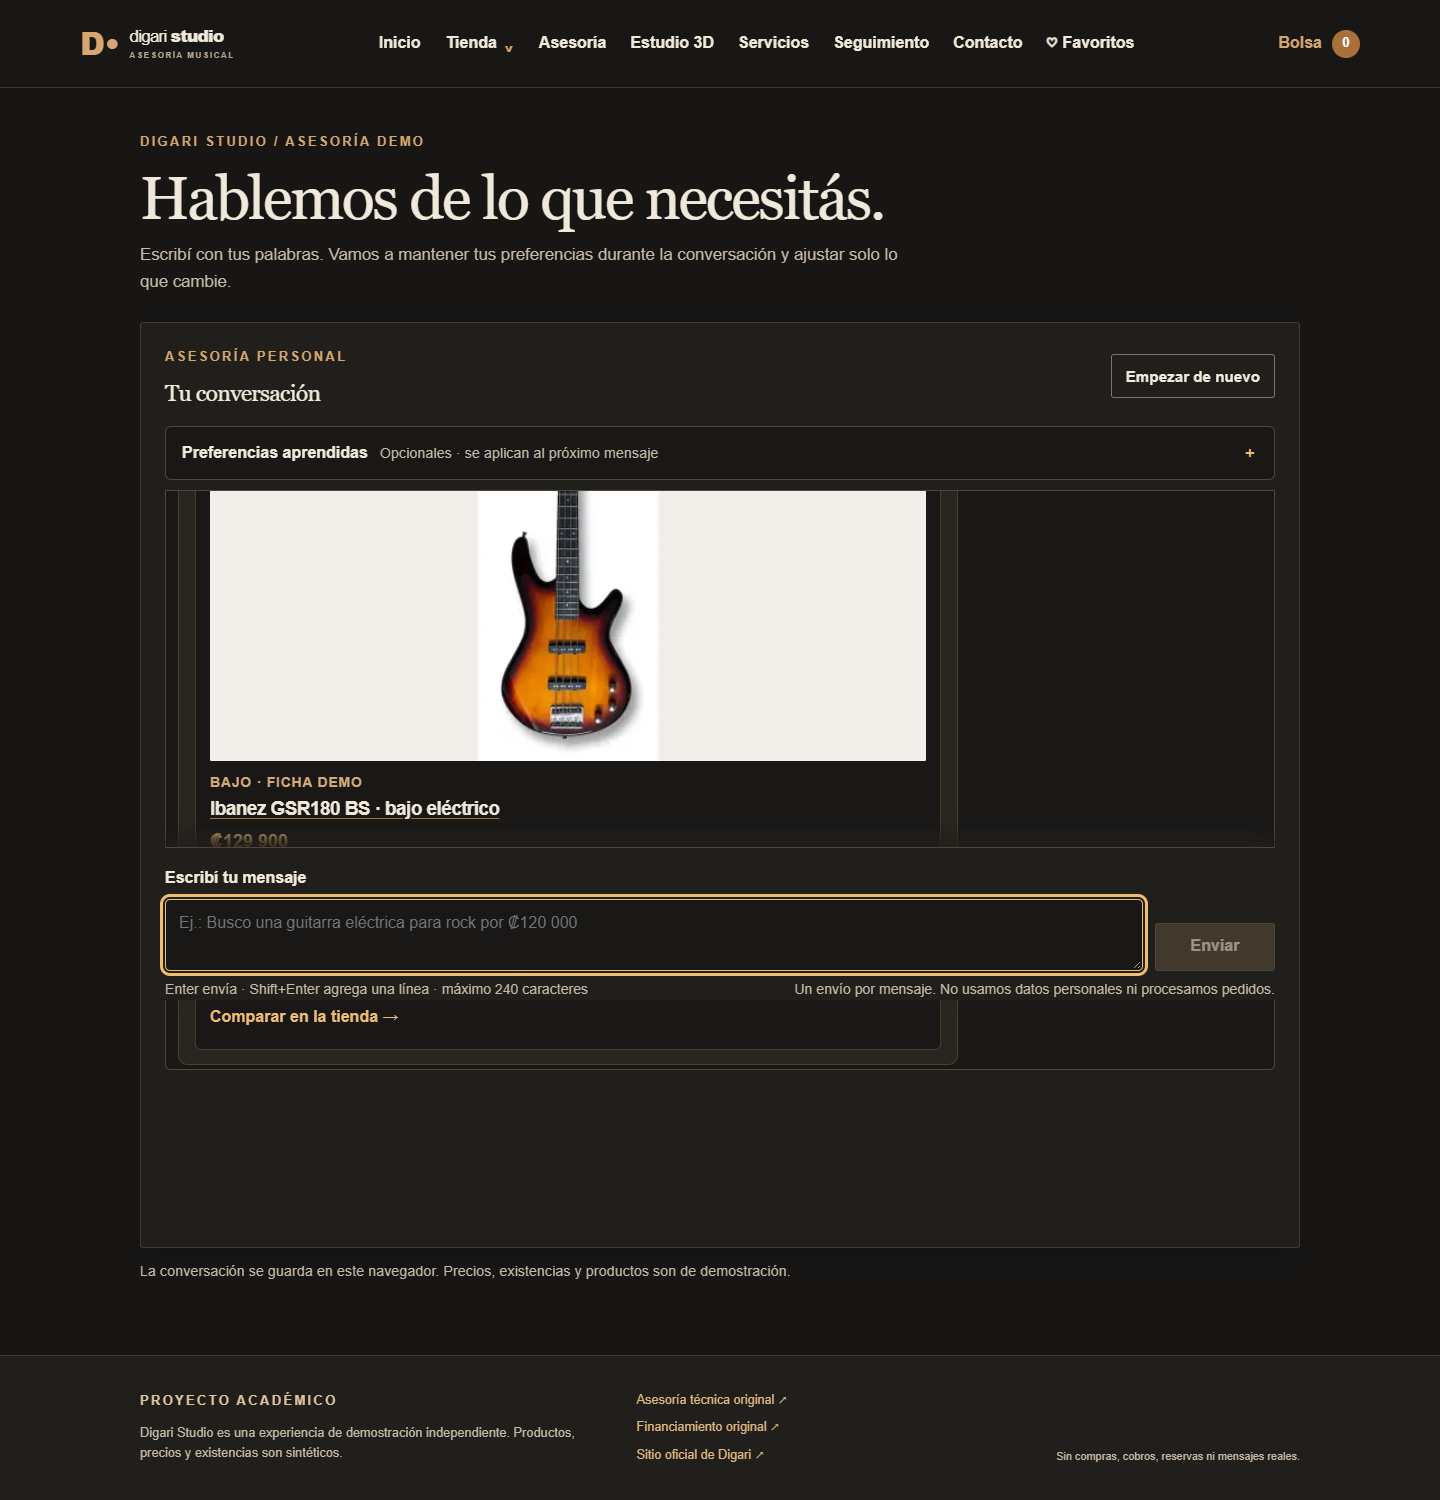
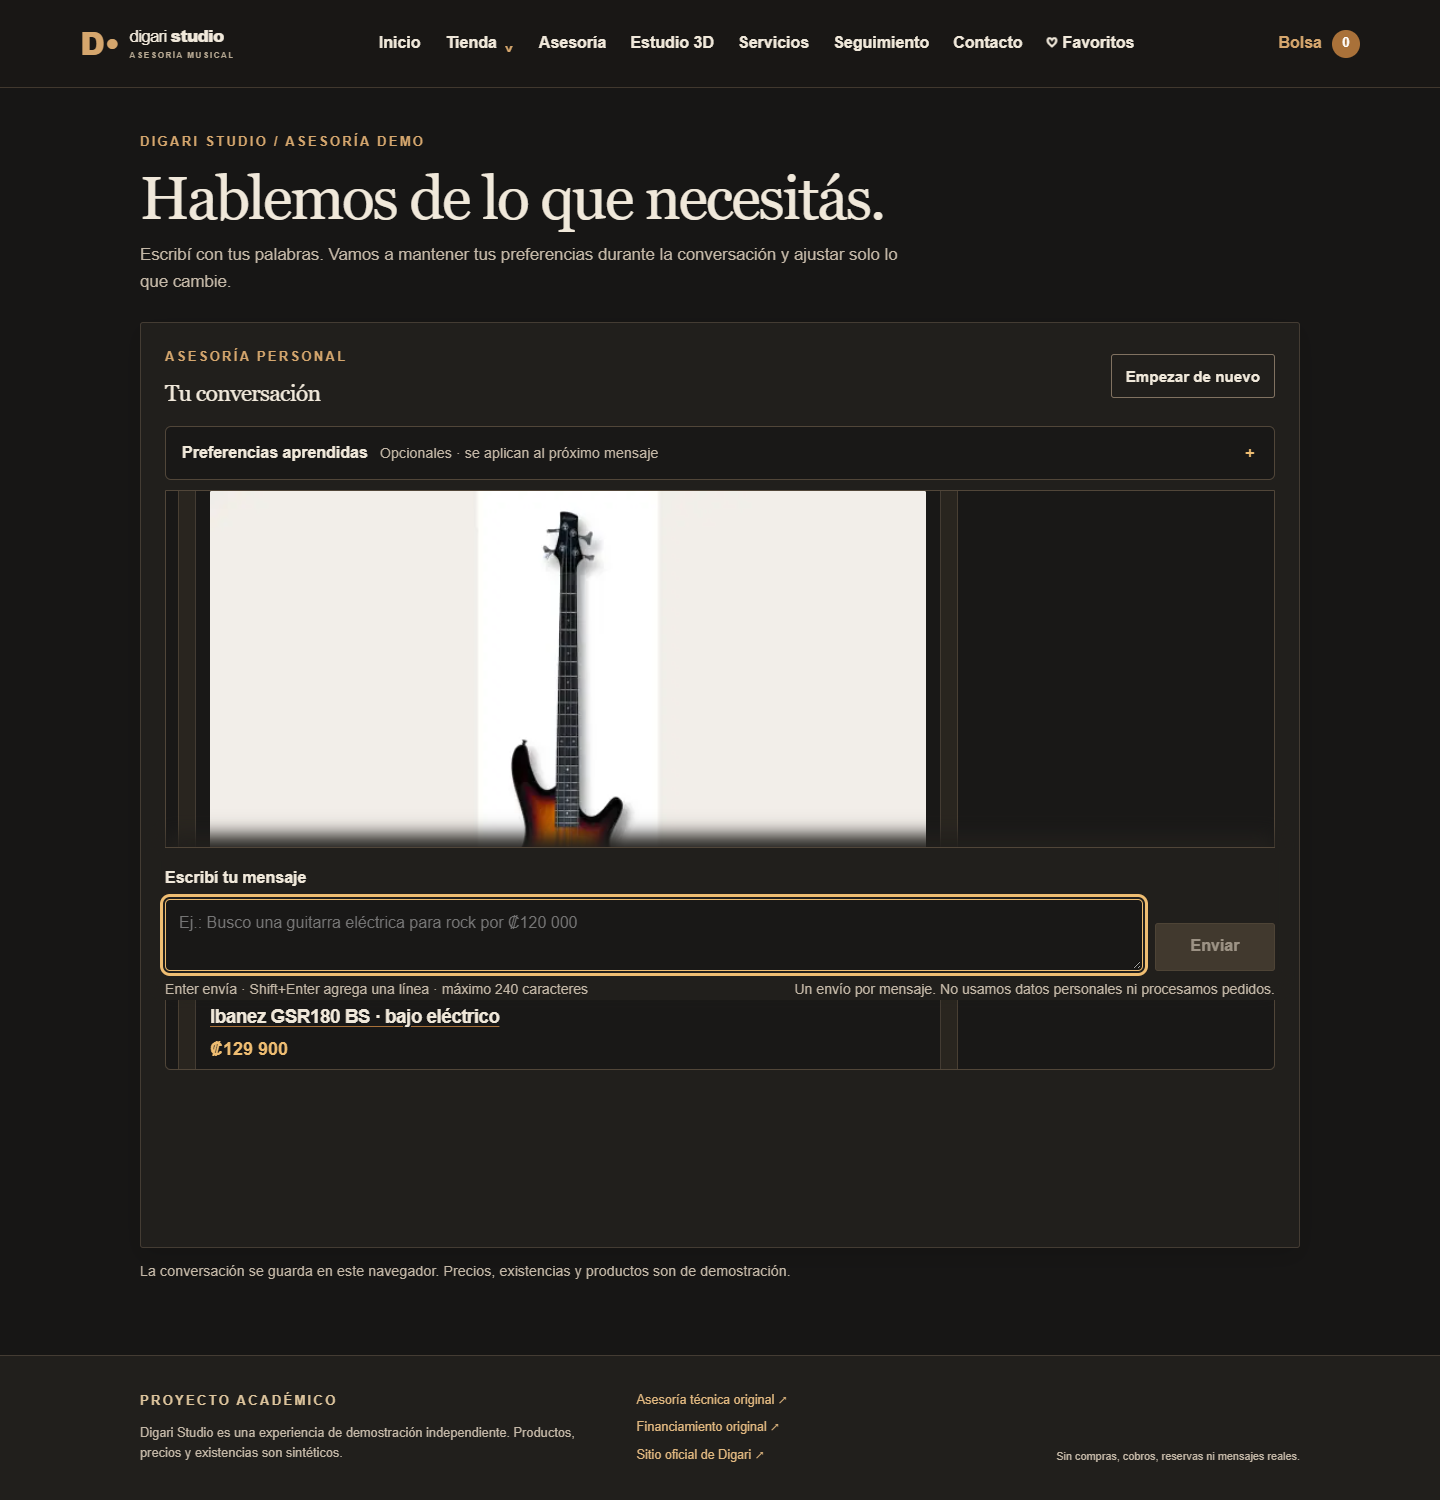
Document advice regression and 100 profile QA

Changed region(s): [[0.125, 0.3067, 0.6562, 0.5827], [0.125, 0.6747, 0.3438, 0.7053]]

diff --git a/docs/qa/informe-usabilidad.md b/docs/qa/informe-usabilidad.md
@@ -1,45 +1,70 @@
-# Auditoría de usabilidad de Digari Studio después de las correcciones
+# Auditoría de usabilidad de Digari Studio
 
-## Resultado medido
+## Resultado
 
-La suite ejecutó 100 perfiles en contextos independientes de Chrome con SQLite temporal por perfil. Los 100 aprobaron los siete rubros después de repetir en serie los 23 casos que habían agotado el tiempo de espera durante la primera pasada en tres navegadores. La primera pasada se conserva en `primera-pasada-957149a.json`. Los resultados finales están en `resultados-e2e.json` y las opiniones simuladas, separadas de las observaciones, en `usuarios-simulados.csv`.
+Se ejecutaron 100 perfiles en 100 contextos independientes. **100 aprobaron los siete rubros, 0 registraron al menos un fallo y 0 quedaron sin ejecutar.** Las cifras describen las tareas automatizadas de esta muestra. Las opiniones del CSV son simuladas.
 
-| Rubro | Base 90ee345, aprobados | Versión 957149a, aprobados | Fallos finales |
+| Rubro | Intentos | Aprobados | Con fallo |
 |---|---:|---:|---:|
-| Inicio, menú y Bolsa | 100/100 | 100/100 | 0 |
-| Tienda, ficha, fotografía y Promos | 62/100 | 100/100 | 0 |
-| Comparación y Favoritos | 100/100 | 100/100 | 0 |
-| Estudio 3D y audio | 100/100 | 100/100 | 0 |
-| Asesoría local, tres turnos | 100/100 | 100/100 | 0 |
-| Pedido y seguimiento tras recarga | 100/100 | 100/100 | 0 |
-| Servicio, seguimiento inválido y Contacto | 100/100 | 100/100 | 0 |
+| Inicio, menú y bolsa | 100 | 100 | 0 |
+| Tienda, ficha y Promos | 100 | 100 | 0 |
+| Comparación y favoritos | 100 | 100 | 0 |
+| Estudio y audio | 100 | 100 | 0 |
+| Asesoría local | 100 | 100 | 0 |
+| Pedido y seguimiento | 100 | 100 | 0 |
+| Servicio y contacto | 100 | 100 | 0 |
 
-La base tenía 62 perfiles con los siete rubros aprobados y 38 con fallo de fotografía. La repetición final tiene **100 aprobados, 0 fallidos y 0 sin ejecutar**. Los 23 casos de la primera pasada nueva fallaron por tiempo de espera bajo ejecución simultánea y completaron los siete rubros al repetirse en serie. No se atribuyeron esos tiempos al producto sin reproducción bajo la misma condición.
+| Grupo | Perfiles | Aprobados en los siete rubros |
+|---|---:|---:|
+| principiantes | 10 | 10 |
+| compradores de regalos | 10 | 10 |
+| guitarristas | 10 | 10 |
+| bajistas y tecladistas | 10 | 10 |
+| productores de home studio | 10 | 10 |
+| técnicos de audio | 10 | 10 |
+| DJs | 10 | 10 |
+| presupuesto ajustado | 10 | 10 |
+| clientes de taller | 10 | 10 |
+| navegación con teclado o zoom | 10 | 10 |
 
-## Las cinco mejoras auditadas
+Se recuperaron 100 pedidos después de recargar y 100 solicitudes de taller. En el recorrido principal se eligió explícitamente «Servicio» al rastrear el comprobante. La prueba adicional examinó qué pasa si se usa la selección predeterminada.
 
-| Mejora | Resultado observable | Cómo repetir la comprobación |
-|---|---|---|
-| Fotografía de cada ficha | 15/15 imágenes WebP cargan y están rotuladas como fotografía de referencia. Se inspeccionaron las nuevas fotos para comprobar objeto y encuadre. El controlador usa una vista completa del Numark Mixtrack. | Abrir las 15 fichas y ejecutar `tests/qa-fixes.mjs`. Revisar los créditos de `docs/fuentes-imagenes.md`. |
-| Enlace del servicio | El comprobante abre Seguimiento con «Servicio» elegido y muestra el estado al consultar directamente. Los pedidos conservan el tipo «Pedido». | Registrar un servicio y un pedido demo, usar sus enlaces y consultar los códigos en sus sesiones. |
-| Comparación desde ficha | El enlace vuelve con una fila seleccionada. Se conservan categoría y presupuesto. El botón Atrás vuelve a la ficha. «Limpiar filtros» deja ambos campos vacíos. | Filtrar Instrumentos hasta ₡100 000, abrir la acústica y usar el enlace de comparación. |
-| Bolsa en carga | Durante 1,2 s de demora controlada aparece «Cargando tu bolsa…». Después se ve ₡84 900, también tras recargar. Con carrito vaciado se ve el estado vacío. | Ejecutar `tests/qa-fixes.mjs` con la vista previa local. |
-| Filtros al regresar | La URL conserva búsqueda, familia, categoría, rango de precios, estilo y disponibilidad. El enlace de regreso y Atrás restauran el filtro; la limpieza elimina los valores. | Aplicar filtros en Tienda, abrir una ficha, volver y borrar filtros. |
+## Base y repetición
 
-## Versión, entorno y reproducción
+Rama **refactor/experiencia-digari**, commit **d98cc905c4fa1a7ccea2124c6e9220c4c836d2f3**, Chrome 157.0.8103.80. La suite compiló un archivo de Git de ese SHA en una carpeta temporal con las dependencias del proyecto. Las instancias de auditoría escucharon en http://127.0.0.1:3180/, http://127.0.0.1:3181/, http://127.0.0.1:3182/. El JSON identifica la URL de cada perfil. Cada proceso sirvió una SQLite recién sembrada y se cerró al concluir su caso. La copia de prueba usó el asesor local.
 
-La rama auditada es `refactor/experiencia-digari`. La compilación de la suite corresponde a `957149a4e735a74efc81339e2fcc33f41cef1991` y se sirvió en `http://127.0.0.1:3180/`, `http://127.0.0.1:3181/` y `http://127.0.0.1:3182/` durante los lotes. Cada registro del JSON indica la URL exacta de su perfil. El archivo `baseline-90ee345.json` conserva el resultado anterior. La suite usa una copia del commit de Git, una base recién sembrada para cada perfil y Gemini desactivado para obtener respuestas locales reproducibles.
-
-Desde la raíz del proyecto, con Node, npm, Chrome y las dependencias instaladas, repetir en PowerShell:
+Desde la raíz, con Node, npm, Chrome, Git, tar y las dependencias del proyecto instaladas, ejecutar en PowerShell:
 
 ```powershell
 powershell -ExecutionPolicy Bypass -File tests/qa-audit.ps1
 ```
 
-Para continuar una ejecución interrumpida del mismo SHA, agregar `-Resume`. El resultado de cada perfil se guarda antes de iniciar el siguiente. Para la comprobación puntual de las cinco correcciones, arrancar la versión en localhost y ejecutar `node tests/qa-fixes.mjs` con `QA_DEPS` apuntando a la instalación temporal de Playwright Core.
+Agregar `-Resume` para continuar desde el último perfil guardado del mismo SHA. El ejecutor escribe el JSON mediante reemplazo de archivo después de cada perfil. Los tres trabajadores usan puertos y bases independientes. Los códigos privados se usaron dentro de cada contexto de navegador. Las capturas muestran únicamente fichas públicas.
+
+## Qué se comprobó
+
+El menú llevó a Tienda y Estudio, se cerró al navegar y permitió abrir Bolsa. Cada perfil probó el menú compacto a 720 × 450. El catálogo se filtró por categoría y presupuesto. Si el producto objetivo excedía el presupuesto, se comprobó su exclusión y se retiró el tope para poder inspeccionar esa ficha. Se abrió una categoría desde Promos, se seleccionaron dos productos, se leyó la comparación y se recuperó el favorito.
+
+En Estudio se seleccionó el ID del perfil y se contrastó su título con el catálogo. Se compararon capturas del lienzo antes y después de girar y acercar. Para los instrumentos se inició una nota, para equipos se priorizó el perfil A cuando estaba disponible y en accesorios pasivos se leyó su explicación. El chat recibió una consulta con tipo, estilo y monto, una petición de alternativa económica y un aumento de ₡15 000 en el mismo campo. Se verificaron las tres respuestas locales y las preferencias finales.
+
+En el pedido se comprobó el total de una unidad, la confirmación, la actividad y el total recuperado tras recargar Seguimiento. Se registraron los cuatro tipos de servicio, se consultó el estado, se probó una entrada inválida y se localizó un canal de contacto. Los pasos con evidencia faltante se identifican como «no ejecutado» en el JSON.
+
+## Cinco mejoras por impacto
+
+| Prioridad | Observación y alcance | Reproducción | Criterio de corrección y decisión |
+|---|---|---|---|
+| 1. Completar las fotografías | 0/100 perfiles vieron «fotografía pendiente» en 0 fichas distintas. La ilustración sí cargó. | Abrir una de estas fichas: . | Una foto autorizada y correctamente identificada por ficha. Bloquea aprobar el criterio de fotografía. |
+| 2. Abrir el seguimiento en el tipo correcto | 1/1 sesión diagnóstica. El enlace del servicio abrió «servicio» y Consultar devolvió «estado visible». Impide recuperar un servicio por el camino directo. | Registrar afinación, seguir el enlace y consultar sin tocar el selector. | Mostrar la actividad del servicio en el primer intento, también tras recargar. Resolver antes de entregar ese flujo. |
+| 3. Conservar el producto al comparar | 1/1 sesión diagnóstica. Desde la ficha acústica, «Volver al catálogo para comparar» produjo 1 filas. Obliga a localizar y marcar de nuevo la primera opción. | Abrir la ficha acústica y usar el enlace de comparación. | El producto aparece marcado y agregar un segundo produce dos filas. Prioritaria para la comparación desde ficha. |
+| 4. Mostrar carga antes del total | 1/1 sesión diagnóstica. Con 1,2 s de demora en el catálogo, el resumen pasó de ₡84 900 a ₡84 900. | Añadir la acústica y abrir Bolsa con esa demora. | Mostrar el total solo cuando se conocen todas las líneas. El pedido persistido pasó la prueba de recarga. Puede esperar a la siguiente revisión. |
+| 5. Recuperar el presupuesto y la categoría al volver | 1/1 sesión diagnóstica. El enlace de vuelta desde la ficha dejó vacíos ambos campos. Afecta especialmente a quien compra con un tope. | Filtrar Instrumentos hasta ₡100 000, abrir la acústica y volver desde el enlace de comparación. | Conservar ambos filtros y la lista aplicable. Puede esperar tras resolver el seguimiento y la selección de comparación. |
+
+Los cuatro diagnósticos de navegación y carga comparten un solo recorrido complementario. Su frecuencia en personas reales queda pendiente. La tabla prioriza la cobertura observada y el esfuerzo necesario para recuperar el flujo.
 
 ## Evidencia y límites
 
-En cada recorrido se abrió el menú y se comprobó su cierre, se filtró y abrió una ficha, se compararon dos productos, se guardó un favorito, se seleccionó un modelo 3D y se accionaron giro y zoom. El audio se activó o se verificó la explicación de accesorio pasivo. El chat local recibió tres turnos con cambio de presupuesto. Se confirmó un pedido y se recuperó tras recargar; también se registró y consultó un servicio, se probó un código inválido y se localizó Contacto. Los códigos privados circularon solo en memoria del navegador y no figuran en los informes o capturas.
+[Resultados por paso](resultados-e2e.json) · [Perfiles y opiniones simuladas](usuarios-simulados.csv) · [Capturas de fichas](evidence/). Los 100 perfiles originales conservaron sus IDs, tareas, presupuestos y dispositivos. Las asignaciones son 89 de escritorio, uno móvil emulado, cinco de teclado y cinco de zoom. El menú compacto también se comprobó en escritorio. El zoom se aproximó por tamaño de viewport y densidad de píxeles. Los perfiles de teclado activaron controles mediante foco y Enter, con selección automatizada de campos y casillas.
 
-El CSV conserva las 100 tareas y sus opiniones marcadas como simuladas. Se revisó una captura por grupo. La emulación no sustituye el tacto en teléfono, la escucha con equipo real, un lector de pantalla ni entrevistas con clientes. La correspondencia exacta de la variante roja del ukelele Makala y las fichas históricas sin página oficial accesible siguen indicadas en `docs/fuentes-imagenes.md`. Los precios y existencias son de demostración. Las mediciones de tiempo y éxito con personas reales siguen pendientes.
+Se revisó una captura de ficha por grupo. La emulación deja pendientes el zoom nativo del navegador al 200 %, el recorrido completo por Tab con lector de pantalla, el tacto en un teléfono y la escucha física. El cambio de píxeles del visor indica respuesta a los controles. La audición, la fidelidad del timbre y la comprensión del rotulado por músicos requieren pruebas con personas. Los tiempos y la tasa de éxito de compradores reales siguen sin medir.
+
+Los resultados de la sesión parcial anterior se conservan en evidence/U001-estudio-movil.png y evidence/profiles-results.json como antecedentes. Los conteos de este informe proceden de resultados-e2e.json.

diff --git a/docs/qa/advice-chat-regression.md b/docs/qa/advice-chat-regression.md
@@ -1,0 +1,52 @@
+# Regresión de Asesoría y estado del catálogo
+
+## Recorrido de chat comprobado
+
+- Rama: `refactor/experiencia-digari`.
+- SHA de la aplicación: `d98cc905c4fa1a7ccea2124c6e9220c4c836d2f3`.
+- Chrome: `157.0.8103.80`.
+- Vista previa de prueba: `http://localhost:3118/asesoria`.
+- Base: SQLite temporal; Gemini desactivado para no usar la clave local.
+- El script reproducible es `node tests/advice-chat-regression.mjs`.
+
+Los primeros cuatro mensajes se enviaron, en ese orden y desde el mismo campo:
+
+| Mensaje | Resultado visible en Chrome |
+|---|---|
+| «¿Tienen bajos?» | Tarjeta Ibanez GSR180 BS desde el catálogo demo, con foto WebP cargada, precio ₡129 900 y enlace a la ficha. No preguntó por presupuesto, uso ni estilo. |
+| «Busco un piano por ₡200 000» | Sin productos recomendados; explicó que aún no hay pianos acústicos ni digitales demo y que un teclado es otra familia. |
+| «Busco una guitarra por ₡150 000» | Tarjetas de guitarra acústica y eléctrica; ambas muestran imagen, precio inferior al monto y enlace. La nueva búsqueda sustituyó el tipo y el presupuesto anteriores. |
+| «¿Hay algo más barato?» | Conservó guitarra y comunicó que no quedaba una alternativa con existencias y precio menor entre las fichas disponibles. No propuso opciones fuera del límite. |
+
+En una conversación nueva se comprobó además «Busco una guitarra acústica por ₡120 000»: la familia específica prevaleció sobre «Guitarra» y no mostró la eléctrica. En los cinco casos se mantuvieron el historial y el campo de escritura en pantalla. El proveedor Gemini real no se llamó en esta prueba; el modo local fue el observado. Las pruebas unitarias también cubren un proveedor simulado y el fallback.
+
+Capturas: [respuesta con bajos y foto cargada](advice-chat-bajos.png) y [secuencia completa](advice-chat-regression.png). No contienen códigos privados.
+
+## Inventario que permanece en la versión
+
+El endpoint público devolvió **15 fichas en 15 familias; una ficha por familia**. Los rangos usados para este resumen son económicos (hasta ₡30 000), intermedios (₡30 001–₡100 000) y altos (más de ₡100 000). Todos los precios y stocks siguen siendo demostrativos.
+
+| Familia actual | Total | Económico | Intermedio | Alto |
+|---|---:|---:|---:|---:|
+| Guitarra acústica | 1 | 0 | 1 | 0 |
+| Guitarra eléctrica | 1 | 0 | 0 | 1 |
+| Bajo | 1 | 0 | 0 | 1 |
+| Teclado | 1 | 0 | 1 | 0 |
+| Piano digital o acústico | 0 | 0 | 0 | 0 |
+| Ukelele | 1 | 1 | 0 | 0 |
+| Viento | 1 | 1 | 0 | 0 |
+| Cuerdas | 1 | 1 | 0 | 0 |
+| Cable | 1 | 1 | 0 | 0 |
+| Caña | 1 | 1 | 0 | 0 |
+| Micrófono | 1 | 1 | 0 | 0 |
+| Monitor | 1 | 0 | 1 | 0 |
+| Parlante | 1 | 0 | 1 | 0 |
+| Controlador DJ | 1 | 0 | 1 | 0 |
+| Audífonos | 1 | 1 | 0 | 0 |
+| Interfaz | 1 | 0 | 1 | 0 |
+
+**La meta de cinco modelos distintos por familia no está cumplida:** ninguna familia llega a cinco ni ofrece los tres rangos. El catálogo conserva 15 fotografías WebP con atribución, autor y licencia en [`fuentes-imagenes.md`](../fuentes-imagenes.md). Ese archivo documenta confirmación de modelo desde fuente oficial para 9/15; las otras seis fichas aún requieren confirmación oficial o aclaración de identidad/variante. No se añadieron productos ni se reutilizaron fotos como si fueran de modelos distintos.
+
+## Suite de perfiles
+
+La corrida completa de `tests/qa-audit.ps1` construyó desde Git el SHA `d98cc905c4fa1a7ccea2124c6e9220c4c836d2f3`, ejecutó 100 contextos aislados y aprobó 100/100 los siete rubros. Los datos por paso y la URL temporal están en [`resultados-e2e.json`](resultados-e2e.json); el resumen de tareas y límites está en [`informe-usabilidad.md`](informe-usabilidad.md). La suite verificó el asesor local, no Gemini en línea.

diff --git a/docs/fuentes-imagenes.md b/docs/fuentes-imagenes.md
@@ -50,3 +50,9 @@ Los enlaces oficiales confirman modelos cuando están disponibles. El autor y la
 - La foto de YRS-24B incluye el estuche; la de los cables muestra más de un cable. No se presentan como fotografías de existencias locales.
 - Las quince fotos aparecen mediante `ProductImage` en tienda, ficha, favoritos, comparación, carrito y recomendaciones. Estudio usa la misma ruta como alternativa a WebGL. El visor 3D sigue rotulado como ilustrativo.
 - Revisión visual final en escritorio y teléfono debe confirmar encuadre y correspondencia antes de liberar fuera del prototipo académico.
+
+## Revisión de ampliación del catálogo (noviembre de 2026)
+
+La revisión de esta versión encontró 15 fichas en 15 familias, una por familia. No se agregaron fichas: esta entrega no pudo verificar para modelos adicionales, de forma simultánea, el modelo/variante exactos y una fotografía reutilizable con licencia clara. En particular, todavía hacen falta al menos cinco modelos económicos, intermedios y altos por familia; Piano digital también está ausente. No se duplicaron las fotografías actuales para aparentar modelos nuevos ni se tocaron los productos, pedidos o líneas históricas de SQLite.
+
+El conteo actual es 15/15 archivos de foto con atribución y licencia registradas en la tabla anterior; 9/15 fichas tienen además confirmación de modelo indicada en la sección de fuentes oficiales. Las seis fichas restantes y sus dudas concretas siguen enumeradas en esa tabla. La secuencia de Asesoría y el estado de cobertura del inventario están registrados en [la prueba de regresión](qa/advice-chat-regression.md).
